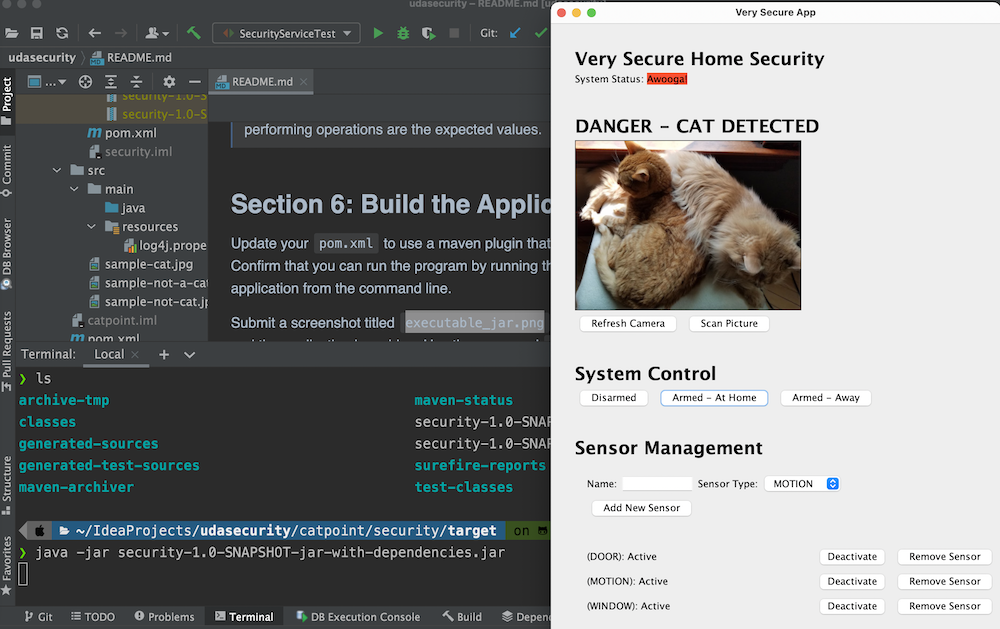
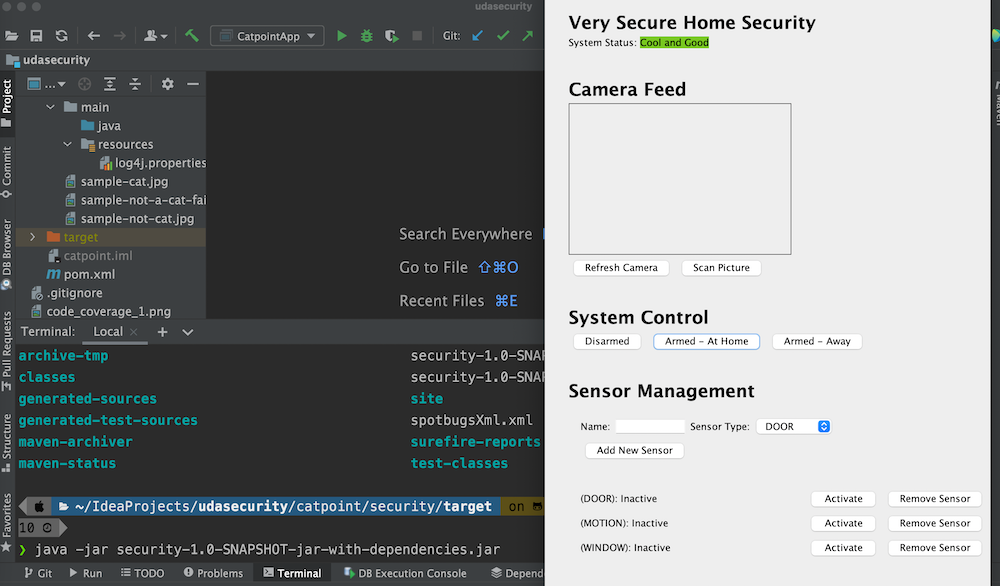
fixed the bugs and completed test coverage

diff --git a/catpoint/security/src/main/java/com/udacity/catpoint/security/application/SensorPanel.java b/catpoint/security/src/main/java/com/udacity/catpoint/security/application/SensorPanel.java
@@ -1,5 +1,6 @@
 package com.udacity.catpoint.security.application;
 
+import com.udacity.catpoint.security.data.AlarmStatus;
 import com.udacity.catpoint.security.data.Sensor;
 import com.udacity.catpoint.security.data.SensorType;
 import com.udacity.catpoint.security.service.SecurityService;
@@ -12,7 +13,7 @@ import javax.swing.*;
  * Panel that allows users to add sensors to their system. Sensors may be
  * manually set to "active" and "inactive" to test the system.
  */
-public class SensorPanel extends JPanel {
+public class SensorPanel extends JPanel implements StatusListener{
 
     private SecurityService securityService;
 
@@ -30,6 +31,7 @@ public class SensorPanel extends JPanel {
         super();
         setLayout(new MigLayout());
         this.securityService = securityService;
+        securityService.addStatusListener(this);
 
         panelLabel.setFont(StyleService.HEADING_FONT);
         addNewSensorButton.addActionListener(e ->
@@ -115,6 +117,21 @@ public class SensorPanel extends JPanel {
      */
     private void removeSensor(Sensor sensor) {
         securityService.removeSensor(sensor);
+        updateSensorList(sensorListPanel);
+    }
+
+    @Override
+    public void notify(AlarmStatus status) {
+        //do nothing
+    }
+
+    @Override
+    public void catDetected(boolean catDetected) {
+        //do nothing
+    }
+
+    @Override
+    public void sensorStatusChanged() {
         updateSensorList(sensorListPanel);
     }
 }

diff --git a/catpoint/security/src/main/java/com/udacity/catpoint/security/service/SecurityService.java b/catpoint/security/src/main/java/com/udacity/catpoint/security/service/SecurityService.java
@@ -97,12 +97,11 @@ public class SecurityService {
      * Internal method for updating the alarm status when a sensor has been activated.
      */
     private void handleSensorActivated() {
-        if(securityRepository.getArmingStatus() == ArmingStatus.DISARMED) {
-            return; //no problem if the system is disarmed
-        }
-        switch(securityRepository.getAlarmStatus()) {
-            case NO_ALARM -> setAlarmStatus(AlarmStatus.PENDING_ALARM);
-            case PENDING_ALARM -> setAlarmStatus(AlarmStatus.ALARM);
+        if(securityRepository.getArmingStatus() != ArmingStatus.DISARMED) {
+            switch(securityRepository.getAlarmStatus()) {
+                case NO_ALARM -> setAlarmStatus(AlarmStatus.PENDING_ALARM);
+                case PENDING_ALARM -> setAlarmStatus(AlarmStatus.ALARM);
+            }
         }
     }
 

diff --git a/catpoint/security/src/test/java/com/udacity/catpoint/security/service/SecurityServiceTest.java b/catpoint/security/src/test/java/com/udacity/catpoint/security/service/SecurityServiceTest.java
@@ -158,6 +158,14 @@ public class SecurityServiceTest {
         securityService.getSensors().forEach(sensor -> assertFalse(sensor.getActive()));
     }
 
+    // Test handleSensorActivated():
+    @Test
+    void whenSensorActivated_whileSystemDisArmed_ShouldBeNoChange() {
+        when(securityRepository.getArmingStatus()).thenReturn(ArmingStatus.DISARMED);
+        securityService.changeSensorActivationStatus(sensor, true);
+        verify(securityRepository, never()).setArmingStatus(ArmingStatus.DISARMED);
+    }
+
     //11,If the system is armed-home while the camera shows a cat, set the alarm status to alarm.
     @Test
     void whenArmedHome_whileCatDetected_statusShouldBeAlarm() {

diff --git a/catpoint/security/src/main/java/com/udacity/catpoint/security/data/Sensor.java b/catpoint/security/src/main/java/com/udacity/catpoint/security/data/Sensor.java
@@ -15,6 +15,8 @@ public class Sensor implements Comparable<Sensor> {
     private Boolean active;
     private SensorType sensorType;
 
+    public Sensor() {}
+
     public Sensor(String name, SensorType sensorType) {
         this.name = name;
         this.sensorType = sensorType;
